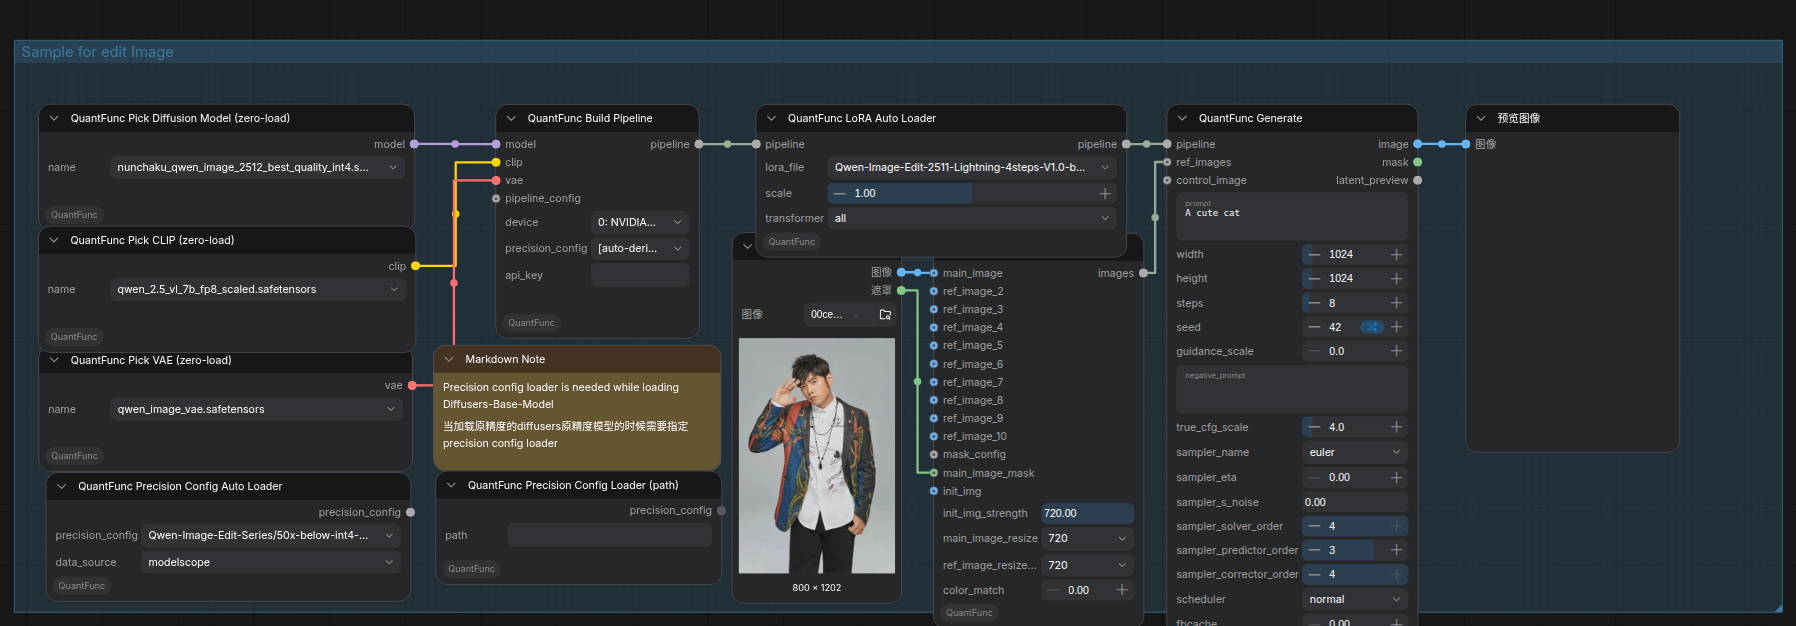
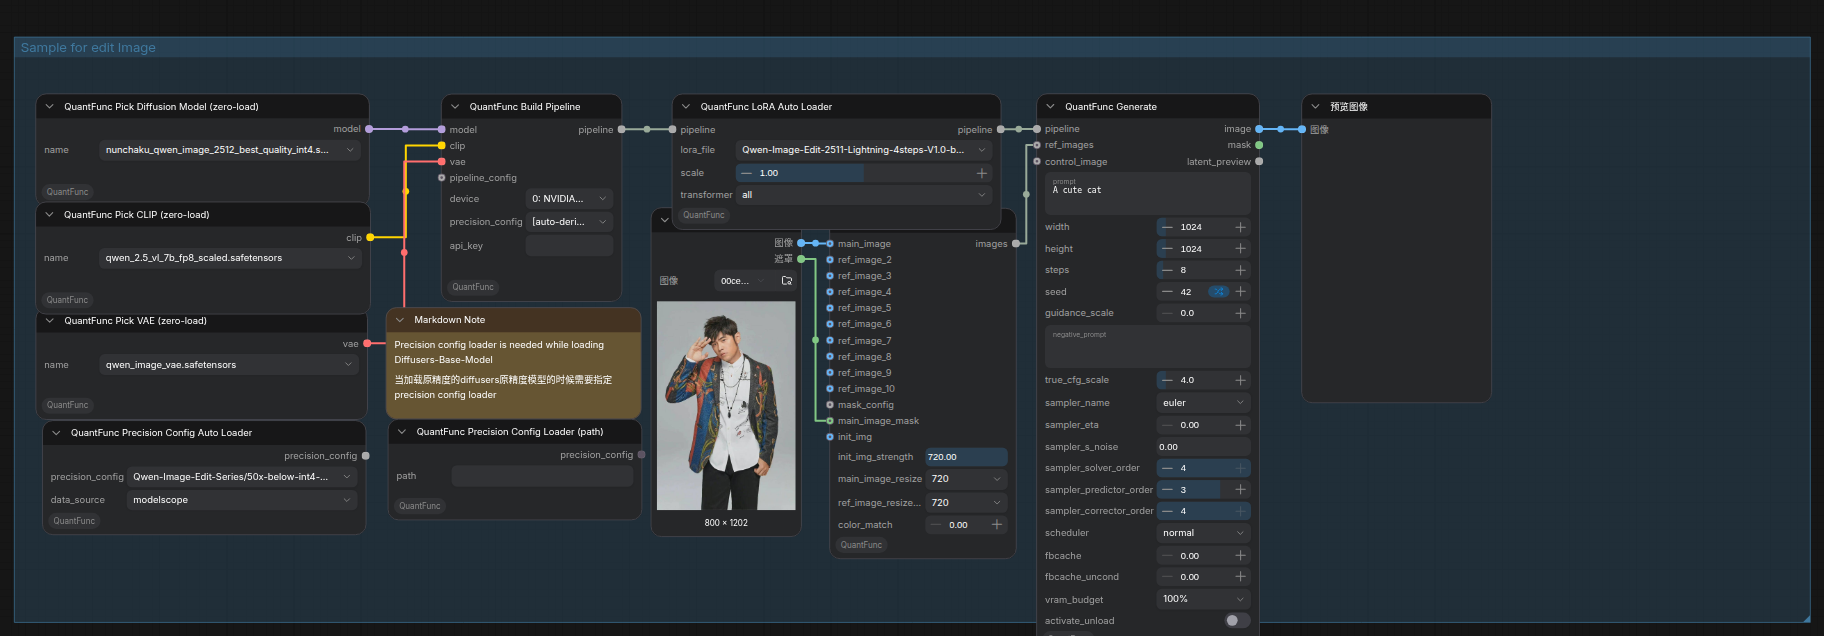
docs(comfyui): doc3《图像编辑:mask/color/尺寸对齐》配真实截图(3 图,值对 origin/main)
在 prior-CR 过的 doc3 文字上补图 + 收口图片引用:
- §零 图像编辑整体连线:edit-overview(CDP 重排、对齐、落 group 内),取自真实工作流
  Sample for edit Image 分组已存值。
- §一 QuantFunc Image List 节点特写(node-image-list):主图/9 参考图/遮罩/两个尺寸下拉/
  color_match/init_img 全在一个节点上。
- §三.1 Mask Config 四参数(node-mask-config):mask_strength/grow/blur/no_snap + 默认值。
- §二 尺寸对齐:720-vs-origin 的**输出对比**需真实 GPU 生成(超出截图管线范围),故不放
  伪造对比图,改为指向 §一 节点截图 + 保留详尽文字(诚实,不摆拍)。

真实性(doc1 教训):doc3 涉及的 3 个节点(ImageList/MaskConfig/MaskScaleBy)INPUT_TYPES
经 md5 核实**与仓库 origin/main 字节相同** → 截图 + 参数表(main_image_resize 720/
color_match 0.0/mask 默认 1.0/6/0.0/False/scale_by 1.0 等)对 shipping 准确。
图片引用用 ../assets/(承接前一 commit 对 doc3 的 doc-relative 修复)。

diff --git a/doc/image-edit-mask-colormatch_zh.md b/doc/image-edit-mask-colormatch_zh.md
@@ -21,8 +21,7 @@ Load Image → QuantFunc Image List ──────┘
 
 > **完整 workflow 例子：** [`QuantFunc-Sample-WorkFlow-All-In-One.json`](../workflow_sample/QuantFunc-Sample-WorkFlow-All-In-One.json) 里标题为 **`Sample for edit Image`** 的分组（示例用 `QuantFunc/Qwen-Image-Edit-Series` 模型 + Load Image → Image List → Generate）。
 
-![图像编辑整体连线](../assets/edit-overview.png)
-<!-- TODO-SCREENSHOT: 导入 QuantFunc-Sample-WorkFlow-All-In-One.json，截 `Sample for edit Image` 分组：加载(Qwen-Image-Edit-Series)→Build Pipeline→Generate；Load Image→Image List→Generate.ref_images 的完整连线 -->
+![图像编辑整体连线：加载编辑模型 → Build Pipeline → Generate；Load Image → Image List → Generate 的 ref_images](../assets/edit-overview.png)
 
 ---
 
@@ -44,6 +43,10 @@ Load Image → QuantFunc Image List ──────┘
 
 > **必须连主图或源图之一**：Image List 要求 `main_image`（编辑）或 `init_img`（img2img）**至少连一个**，都不连会报错 `connect either main_image (edit) or init_img (t2i img2img)`。
 
+下图是 **QuantFunc Image List** 节点，上表的输入（主图、9 张参考图、遮罩、两个尺寸下拉 `main_image_resize` / `ref_image_resize_others`、`color_match`、`init_img` / `init_img_strength`）都在这一个节点上：
+
+![QuantFunc Image List 节点参数](../assets/node-image-list.png)
+
 ---
 
 ## 二、尺寸与像素级对齐（`main_image_resize` / `ref_image_resize_others`）
@@ -64,8 +67,7 @@ Load Image → QuantFunc Image List ──────┘
 
 > **代价**：`origin` 编码的是全分辨率图，显存和耗时高于 `720`。大图 + `origin` 可能 OOM —— 显存紧张时先用 `720` 出草稿、确认构图后再切 `origin` 出终稿；或配合管线的 `vram_budget` / VAE tiling。
 
-![尺寸模式对比：720 vs origin](../assets/edit-resize-origin.png)
-<!-- TODO-SCREENSHOT: QuantFunc Image List 节点，突出 main_image_resize 下拉展开（720/1024/origin），可并排放一张 720 输出与一张 origin 输出对比说明尺寸差异 -->
+> **在哪里设**：`main_image_resize` / `ref_image_resize_others` 就在 §一 的 **QuantFunc Image List** 节点上（见上方节点截图，默认都是 `720`）。要像素级对齐 / 输出同原图尺寸，把 `main_image_resize` 改成 `origin`。
 
 ---
 
@@ -102,8 +104,7 @@ QuantFunc Mask Config          →  mask_config      ┘（可选，不连走默
 
 **相互作用**：`mask_grow` + `mask_blur` 一起用来消接缝（先膨胀再羽化）；`mask_no_snap` 与它们正交 —— 开了 no_snap 追求柔和过渡，就会牺牲保留区的严格一致性。`mask_strength=0` 会让整个 inpaint 失效（引擎侧 `inpaint_strength>0` 才走遮罩路径）。
 
-![Mask Config 四参数](../assets/edit-mask-config.png)
-<!-- TODO-SCREENSHOT: QuantFunc Mask Config 节点，展示 mask_strength / mask_grow / mask_blur / mask_no_snap 四个参数标签与默认值 -->
+![QuantFunc Mask Config：mask_strength / mask_grow / mask_blur / mask_no_snap 四参数](../assets/node-mask-config.png)
 
 ### 三.2 完整局部重绘步骤
 
